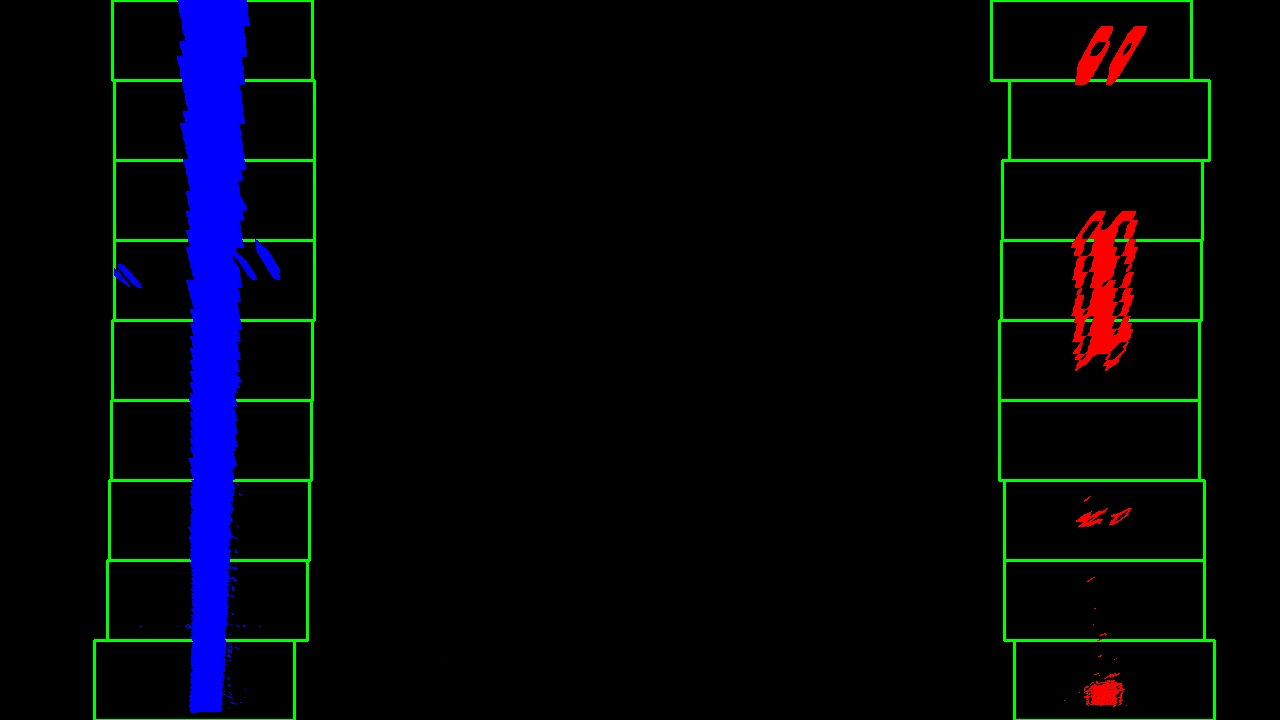
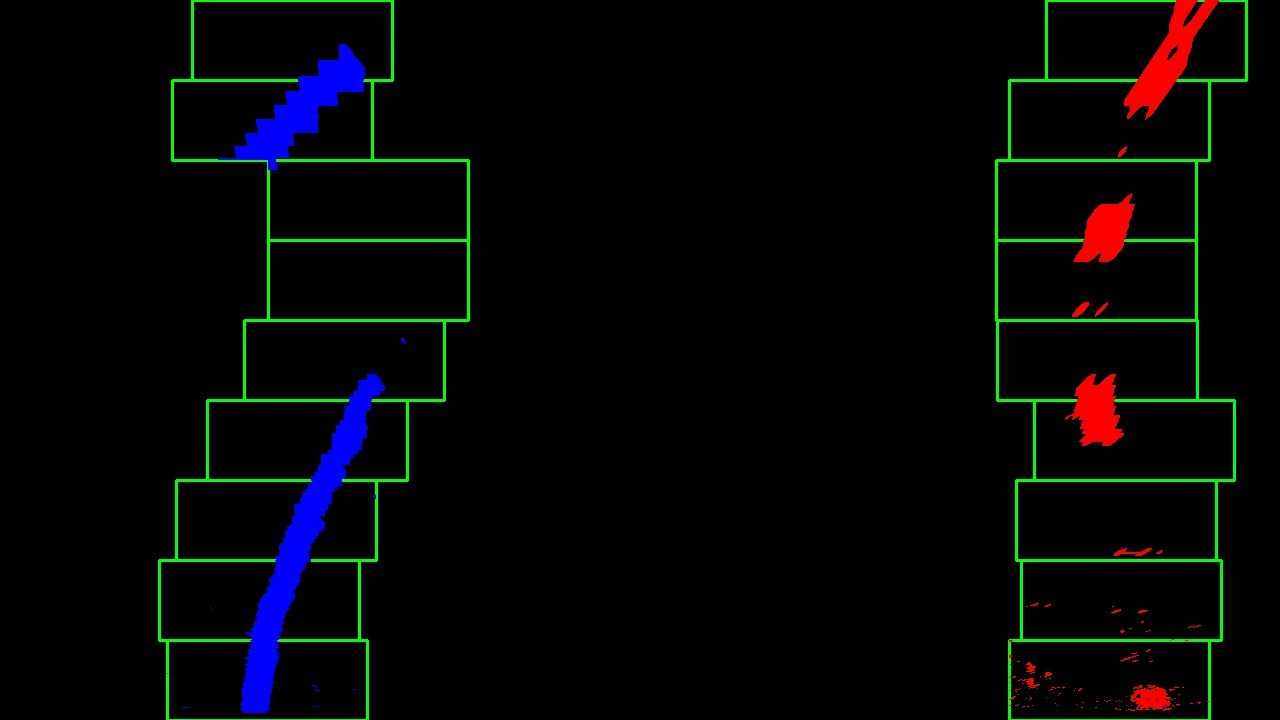
Added video support

diff --git a/Main.py b/Main.py
@@ -2,7 +2,7 @@ import numpy as np
 import cv2
 import glob
 import matplotlib.pyplot as plt
-
+from moviepy.editor import VideoFileClip
 
 class CameraCalibration:
     def __init__(self, mtx, dist):
@@ -20,8 +20,14 @@ class Transformation:
 
     def transform(self, img):
         #img_size = (img.shape[1], img.shape[0])
+        # TODO: Store image resolution as global variable
         img_size = (1280, 720)
         return cv2.warpPerspective(img, self.matrix, img_size, flags=cv2.INTER_LINEAR)
+
+    def transform_inv(self, img):
+        #img_size = (img.shape[1], img.shape[0])
+        img_size = (1280, 720)
+        return cv2.warpPerspective(img, self.matrix_inv, img_size, flags=cv2.INTER_LINEAR)
 
 
 def print_calibration(calibration):
@@ -61,18 +67,18 @@ def calibrate_camera():
     return calibration
 
 
-def color_gradient_crop(img):
-    cropped = img[img.shape[0]//2:img.shape[0]]
+def color_gradient(img):
+    #cropped = img[img.shape[0]//2:img.shape[0]]
 
     # Convert to HLS color space and separate the S channel
     # Note: img is the undistorted image
-    hls = cv2.cvtColor(cropped, cv2.COLOR_RGB2HLS)
+    hls = cv2.cvtColor(img, cv2.COLOR_RGB2HLS)
     s_channel = hls[:, :, 2]
 
     # Grayscale image
     # NOTE: we already saw that standard grayscaling lost color information for the lane lines
     # Explore gradients in other colors spaces / color channels to see what might work better
-    gray = cv2.cvtColor(cropped, cv2.COLOR_RGB2GRAY)
+    gray = cv2.cvtColor(img, cv2.COLOR_RGB2GRAY)
 
     # Sobel x
     sobelx = cv2.Sobel(gray, cv2.CV_64F, 1, 0)  # Take the derivative in x
@@ -86,7 +92,7 @@ def color_gradient_crop(img):
     sxbinary[(scaled_sobel >= thresh_min) & (scaled_sobel <= thresh_max)] = 1
 
     # Threshold color channel
-    s_thresh_min = 170
+    s_thresh_min = 170 # 140
     s_thresh_max = 255
     s_binary = np.zeros_like(s_channel)
     s_binary[(s_channel >= s_thresh_min) & (s_channel <= s_thresh_max)] = 1
@@ -103,10 +109,10 @@ def color_gradient_crop(img):
 
 
 def perspective_transform():
-    #src = np.float32([[360, 200], [360, 1100], [85, 680], [85, 600]])
-    #dst = np.float32([[360, 200], [360, 1100], [0, 1100], [0, 200]])
-    src = np.float32([[200, 360], [1100, 360], [700, 100], [580, 100]])
-    dst = np.float32([[200, 720], [1100, 720], [1100, -260], [200, -260]])
+    #src = np.float32([[720, 200], [720, 1100], [100, 700], [100, 580]])
+    #dst = np.float32([[720, 200], [720, 1100], [0, 1100], [0, 200]])
+    src = np.float32([[200, 720], [1100, 720], [575, 440], [700, 440]])
+    dst = np.float32([[200, 720], [1100, 720], [200, 0], [1100, 0]])
 
     M = cv2.getPerspectiveTransform(src, dst)
     Minv = cv2.getPerspectiveTransform(dst, src)
@@ -232,20 +238,71 @@ def fit_polynomial(binary_warped):
     plt.plot(left_fitx, ploty, color='yellow')
     plt.plot(right_fitx, ploty, color='yellow')
 
-    return out_img
+    return ploty, left_fit, right_fit, left_fitx, right_fitx, out_img
+
+
+def measure_curvature_pixels(ploty, left_fit, right_fit):
+    y_eval = np.max(ploty)
+
+    a_left = left_fit[0]
+    b_left = left_fit[1]
+    a_right = right_fit[0]
+    b_right = right_fit[1]
+
+    left_curverad = (1 + (2 * a_left * y_eval + b_left) ** 2) ** (3 / 2) / np.abs(2 * a_left)
+    right_curverad = (1 + (2 * a_right * y_eval + b_right) ** 2) ** (3 / 2) / np.abs(2 * a_right)
+
+    return left_curverad, right_curverad
+
+
+def print_lane(undist, warped, ploty, left_fitx, right_fitx, transform):
+    # Create an image to draw the lines on
+    warp_zero = np.zeros_like(warped).astype(np.uint8)
+    color_warp = np.dstack((warp_zero, warp_zero, warp_zero))
+
+    # Recast the x and y points into usable format for cv2.fillPoly()
+    pts_left = np.array([np.transpose(np.vstack([left_fitx, ploty]))])
+    pts_right = np.array([np.flipud(np.transpose(np.vstack([right_fitx, ploty])))])
+    pts = np.hstack((pts_left, pts_right))
+
+    # Draw the lane onto the warped blank image
+    cv2.fillPoly(color_warp, np.int_([pts]), (0, 255, 0))
+
+    # Warp the blank back to original image space using inverse perspective matrix (Minv)
+    new_warp = transform.transform_inv(color_warp)
+    #newwarp = cv2.warpPerspective(color_warp, Minv, (image.shape[1], image.shape[0]))
+    # Combine the result with the original image
+    result = cv2.addWeighted(undist, 1, new_warp, 0.3, 0)
+    return result
+    #cv2.imwrite('lane.jpg', result)
+
+
+def find_lane(img):
+    #test_img = cv2.imread('TestImages/test1.jpg')
+    undist = calibration.undistort(img)
+    combined_binary = color_gradient(undist)
+    #print_binary(combined_binary, 'color_and_gradient.jpg')
+
+    transform = perspective_transform()
+    warped_binary = transform.transform(combined_binary)
+    #print_binary(warped_binary, 'warped.jpg')
+
+    ploty, left_fit, right_fit, left_fitx, right_fitx, line_img = fit_polynomial(warped_binary)
+    #cv2.imwrite("polynom.jpg", line_img)
+    #left_curverad, right_curverad = measure_curvature_pixels(ploty, left_fit, right_fit)
+
+    #print('Left radius: {:.0f}m'.format(left_curverad))
+    #print('Right radius: {:.0f}m'.format(right_curverad))
+
+    lane_img = print_lane(undist, warped_binary, ploty, left_fitx, right_fitx, transform)
+    return lane_img
 
 
 calibration = calibrate_camera()
 #print_calibration(calibration)
 
-test_img = cv2.imread('TestImages/straight_lines1.jpg')
-undistorted = calibration.undistort(test_img)
-combined_binary = color_gradient_crop(undistorted)
-print_binary(combined_binary, 'color_and_gradient.jpg')
+input_video = VideoFileClip('project_video.mp4')
+output_video = input_video.fl_image(find_lane)
+output_video.write_videofile('output.mp4', audio=False)
 
-transform = perspective_transform()
-warped_binary = transform.transform(combined_binary)
-print_binary(warped_binary, 'warped.jpg')
-
-line_img = fit_polynomial(warped_binary)
-cv2.imwrite("polynom.jpg", line_img)
+# TODO: Sliding window improvement
